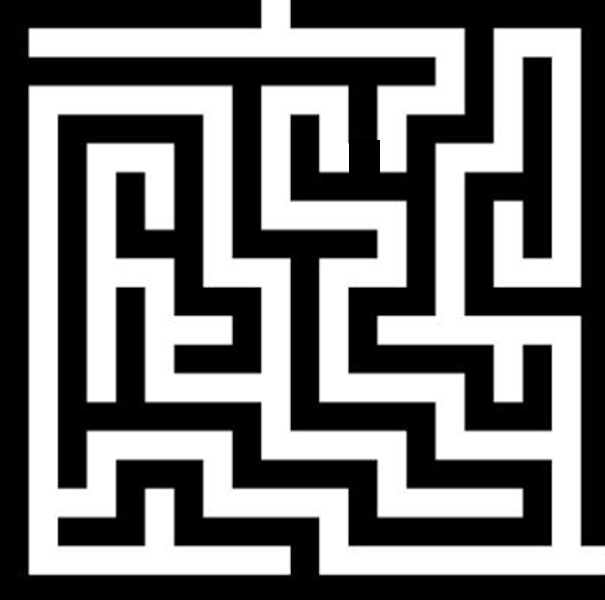
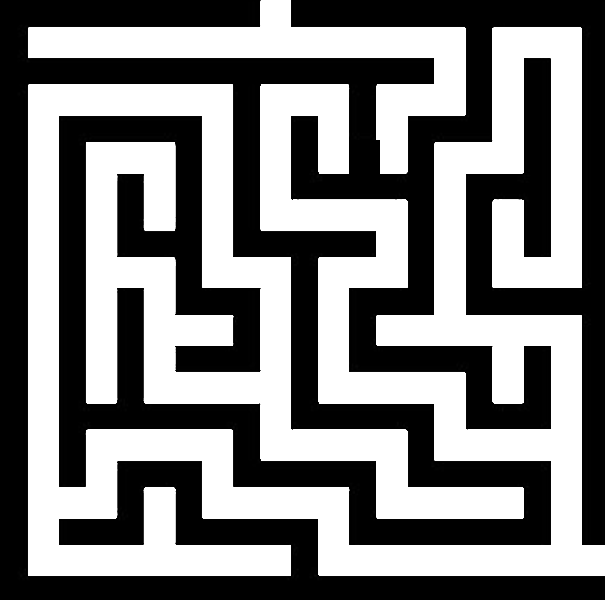
Improved graph generation :D

diff --git a/src/gameItems/Sprite.java b/src/gameItems/Sprite.java
@@ -1,10 +1,14 @@
 package gameItems;
 
+import java.awt.BasicStroke;
 import java.awt.Color;
 import java.awt.Graphics2D;
 import java.awt.Point;
 import java.awt.geom.Point2D;
 import java.util.ArrayList;
+import java.util.Iterator;
+
+
 
 import controllers.PathFinder;
 
@@ -17,7 +21,7 @@ public class Sprite {
         private double heading = 0;
         
         // Path colour.
-        private Color pathColour;
+        private Color pathColour = Color.CYAN;
         
         // Movement Path.
         private ArrayList<Point> path = new ArrayList<Point>();
@@ -60,9 +64,23 @@ public class Sprite {
                path.addAll(PathFinder.intelligentPath(new Point2D.Double(x, y), p));
         }
 		public void draw(Graphics2D g2d) {
-			g2d.drawArc((int)x, (int)y, 10, 10, 0, 360);
+			if (!path.isEmpty()) {
+				g2d.setStroke(new BasicStroke(3));
+				g2d.setColor(pathColour);
+				Point prev = new Point((int) x, (int) y);
+				synchronized (path) {
+					Iterator<Point> it = path.iterator();
+					while (it.hasNext()) {
+						Point p = it.next();
+						g2d.drawLine(prev.x, prev.y, p.x, p.y);
+						prev = p;
+					}
+					g2d.setColor(Color.BLACK);
+				}
+			}
+			g2d.drawArc((int)x-5, (int)y-5, 10, 10, 0, 360);
 			g2d.setColor(Color.RED);
-			g2d.fillArc((int)x+1, (int)y+1, 9, 9, 0, 360);
+			g2d.fillArc((int)x-4, (int)y-4, 9, 9, 0, 360);
 			g2d.setColor(Color.BLACK);
 		}
 }

diff --git a/src/global/Global.java b/src/global/Global.java
@@ -28,12 +28,12 @@ public class Global {
 	}
 	private static void build_collision_graph() {
 		int[][] flagArray = new int[Global.BG.getWidth()][Global.BG.getHeight()];
-		for(int y = 0; y< Global.BG.getHeight()-NODE_SPACING; y+=NODE_SPACING) {
-			for (int x = 0; x < Global.BG.getWidth()-NODE_SPACING; x += NODE_SPACING) {
+		for(int y = 0; y+NODE_SPACING/2< Global.BG.getHeight(); y+=NODE_SPACING) {
+			for (int x = 0; x+NODE_SPACING/2 < Global.BG.getWidth(); x += NODE_SPACING) {
 				// Get the colour of the four corners and set the array flag accordingly
 				// Top left x,y
 				int impassable = 0;
-				int rgb = Global.BG.getRGB(x, y);
+				int rgb = Global.BG.getRGB(x+NODE_SPACING/2, y+NODE_SPACING/2);
 				if(rgb < -10000) {
 					impassable++;
 				}
